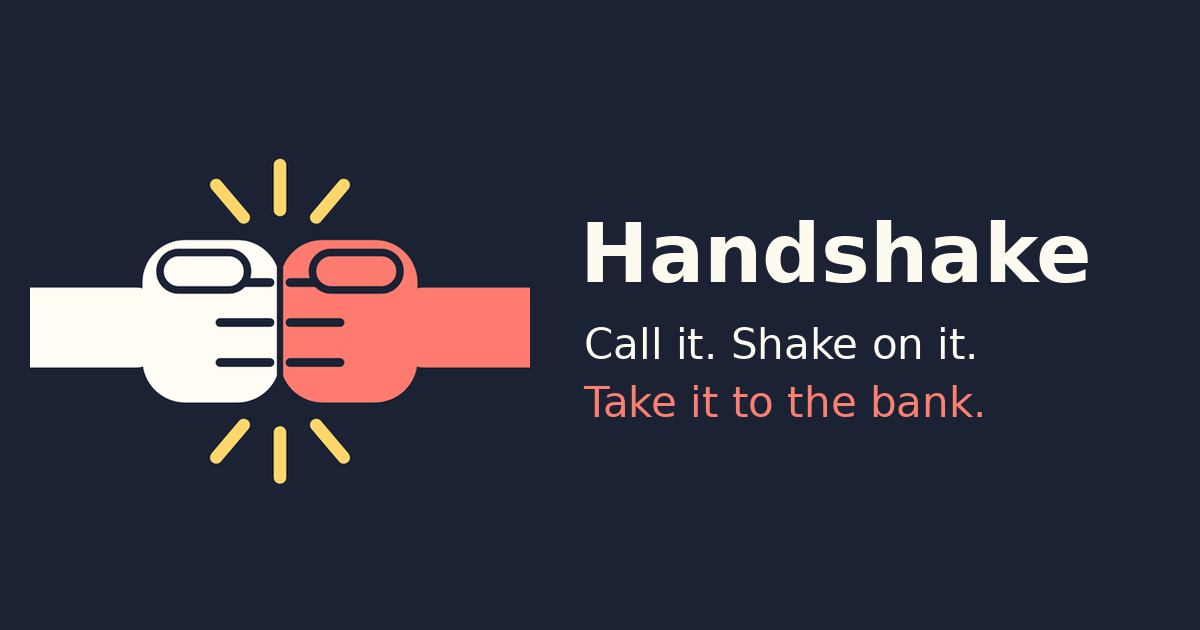
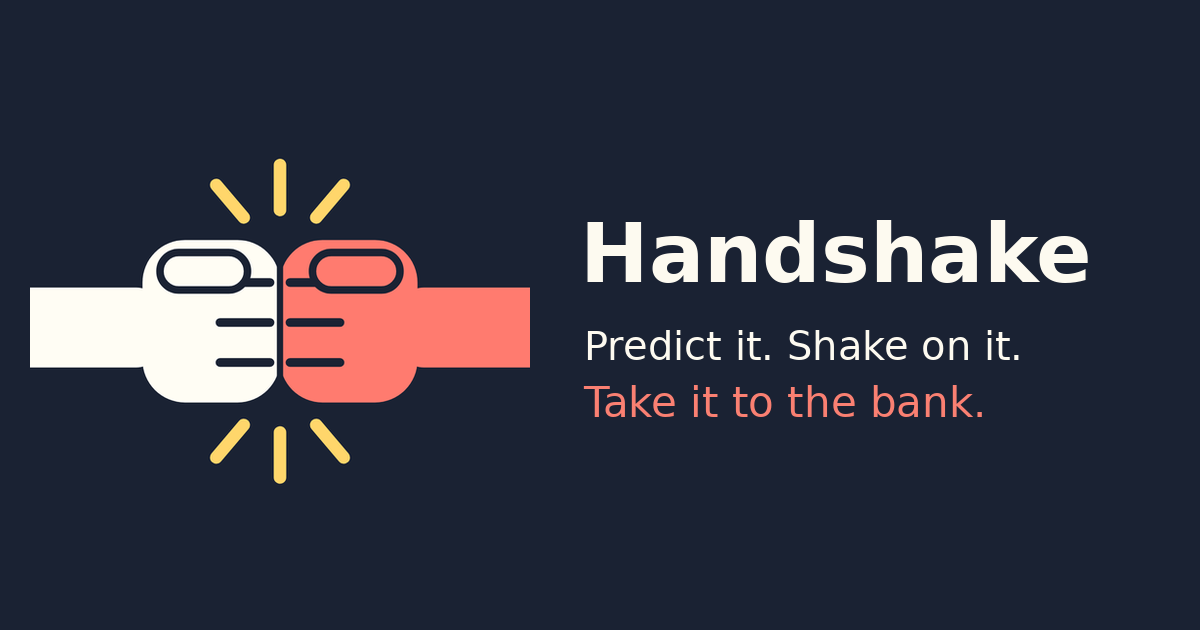
One card per prediction: crashers listed on their side (Says yes / Says no), matchup lines, crash actions inside the card; Predict it wording and tagline
Claude-Session: https://claude.ai/code/session_014Zffo5AKqXqCeBetzQahqg

Changed region(s): [[0.4933, 0.5127, 0.8633, 0.573]]

diff --git a/app.js b/app.js
@@ -139,7 +139,13 @@ const crashable = (b) => ["proposed", "open"].includes(b.status) && !expired(b) 
 /* other one-on-ones from the same group call: same caller, call and deadline, made together */
 const siblings = (b) => (b.parentId || !side(b) ? [] : S.bets.filter((x) => x.id !== b.id && !x.parentId && x.a.uid === b.a.uid && x.title === b.title
   && x.due === b.due && Math.abs((x.createdAt || 0) - (b.createdAt || 0)) < 10 * 60e3 && side(x) && ["open", "disputed"].includes(x.status) && !x.report));
-const mineList = () => S.bets.filter((b) => side(b) || canSign(b) || negSide(b) || isRef(b));
+const involved = (b) => side(b) || canSign(b) || negSide(b) || isRef(b);
+const parentOf = (b) => (b.parentId ? S.bets.find((x) => x.id === b.parentId) || null : null);
+// One card per prediction: a crash you're in shows on its prediction's card.
+const mineList = () => { const keep = new Set(); for (const b of S.bets) if (involved(b)) keep.add(parentOf(b) || b); return S.bets.filter((b) => keep.has(b)); };
+// The crashes on a prediction that involve me (shown inside its card).
+const myKids = (b) => (b.parentId ? [] : liveKids(b).filter(involved));
+const kidNeeds = (b) => myKids(b).some((k) => needsMe(k) || canSign(k));
 
 /* ---------- scoring ---------- */
 function mine() {
@@ -254,7 +260,7 @@ function statusChip(b) {
 function sigLine(b, k) {
   const ok = k === "a" || b.b?.signed;
   const nm = nameOf(b, k);
-  const label = k === "b" && b.b?.proxy && !b.b?.uid ? "in person" : b.parentId ? (k === "a" ? "crashed in" : "accepted") : k === "a" ? "called it" : "against";
+  const label = k === "b" && b.b?.proxy && !b.b?.uid ? "in person" : b.parentId ? (k === "a" ? "crashed in" : "accepted") : k === "a" ? "predicted it" : "against";
   return `<div class="sig"><span class="hand ${ok ? "" : "blank"}">${ok ? esc(nm) : "no handshake yet"}</span><small>${label}</small></div>`;
 }
 function crashLine(b) {
@@ -432,7 +438,43 @@ function setVis(v) {
   $("#visHelp").textContent = VIS[S.vis][1];
 }
 
-function slip(b) {
+/* ---------- one card per prediction: who's on each side, and every matchup ---------- */
+const CR = `<span class="crtag">Crash</span>`;
+// yes = the side of whoever made the prediction; no = the other side
+function matchSides(m) {
+  if (!m.parentId) return { yes: { name: nameOf(m, "a"), uid: m.a?.uid }, no: { name: nameOf(m, "b"), uid: m.b?.uid || m.b?.invited }, crash: null };
+  const ps = m.parentSide || "a", crasher = { name: nameOf(m, "a"), uid: m.a?.uid }, opp = { name: nameOf(m, "b"), uid: m.b?.uid || m.b?.invited };
+  return ps === "a" ? { yes: crasher, no: opp, crash: "yes" } : { yes: opp, no: crasher, crash: "no" };
+}
+function matchLabel(m) {
+  const x = matchSides(m), you = (q) => (q.uid && q.uid === S.me ? "You" : esc(q.name));
+  return `${you(x.yes)}${x.crash === "yes" ? " " + CR : ""} vs ${you(x.no)}${x.crash === "no" ? " " + CR : ""}`;
+}
+function matchStatus(m) {
+  if (m.status === "proposed") return expired(m) ? "Expired" : m.counter ? "Counter offer" : `Waiting for ${(m.b?.uid || m.b?.invited) === S.me || (!m.b?.uid && invitedMe(m)) ? "you" : esc(nameOf(m, "b"))} to shake on it`;
+  if (m.status === "settled") return m.winner === "push" ? "Tie" : `${esc(nameOf(m, m.winner))} won`;
+  return LABEL[m.status] || m.status;
+}
+function sidesBlock(b) {
+  const tagB = b.b?.proxy && !b.b?.uid ? "In person" : b.b?.signed ? "Shook on it" : b.status === "proposed" && !expired(b) ? "Invited · waiting" : "Never shook on it";
+  const yes = [{ n: nameOf(b, "a"), t: "Predicted it" }], no = [{ n: nameOf(b, "b"), t: tagB }];
+  const ks = liveKids(b);
+  for (const k of ks) (((k.parentSide || "a") === "a") ? yes : no).push({ n: nameOf(k, "a"), t: "Crasher" + (k.status === "proposed" && !expired(k) ? " · waiting" : ""), cr: true });
+  const col = (h, list) => `<div class="sidebox"><div class="sidehead">${h}</div>${list.map((x) => `<div class="person"><span class="hand">${esc(x.n)}</span><small class="${x.cr ? "cr" : ""}">${x.t}</small></div>`).join("")}</div>`;
+  const lines = [b, ...ks].map((m) => `<div><span>${matchLabel(m)}</span><span><b>${esc(stakeLabel(m))}</b> <span class="mchip">${matchStatus(m)}</span></span></div>`).join("");
+  const mine = [b, ...ks].filter((m) => side(m)), total = mine.reduce((t, m) => t + stakeOf(m), 0);
+  const sum = mine.length > 1 && total ? `One result settles everything: you're in for ${pts(total)} total across ${mine.length} matchups.` : "One result settles every matchup.";
+  return `<div class="sides">${col("Says yes", yes)}${col("Says no", no)}</div><div class="match">${lines}</div><span class="sub">${sum}</span>`;
+}
+// my net across every matchup on a settled prediction (stamp)
+function netStamp(b) {
+  if (b.status !== "settled") return "";
+  const mine = [b, ...liveKids(b)].filter((m) => side(m) && m.status === "settled");
+  if (!mine.length || mine.some(isOther)) return "";
+  const net = mine.reduce((t, m) => t + (m.winner === "push" ? 0 : m.winner === side(m) ? stakeOf(m) : -stakeOf(m)), 0);
+  return net > 0 ? `<div class="stamp win">+${net}</div>` : net < 0 ? `<div class="stamp">−${-net}</div>` : `<div class="stamp grey">EVEN</div>`;
+}
+function slipParts(b) {
   const s = side(b), o = s ? other(s) : null, p = stakeOf(b);
   const them = s ? esc(nameOf(b, o)) : null;
   let stamp = "";
@@ -473,7 +515,7 @@ function slip(b) {
         note = `Waiting for <b>${them}</b> to shake on it. Send them the link, or tap "We shook on it" if you agreed in person.`;
         acts = S.fixing === b.id ? "" : `<button class="btn" data-act="shook" data-id="${b.id}" ${busy}>We shook on it</button>${notifyBtn(b)}<button class="btn quiet" data-act="fix" data-id="${b.id}">Fix name or number</button><button class="btn quiet danger" data-act="withdraw" data-id="${b.id}" ${busy}>Withdraw</button>`;
       } else if (canSign(b)) {
-        note = `<b>${esc(nameOf(b, "a"))}</b> made this call against <b>${esc(nameOf(b, "b"))}</b>. It's waiting on your handshake.`;
+        note = `<b>${esc(nameOf(b, "a"))}</b> made this prediction against <b>${esc(nameOf(b, "b"))}</b>. It's waiting on your handshake.`;
         acts = S.countering === b.id ? "" : `<button class="btn primary" data-act="sign" data-id="${b.id}" ${busy}>Shake on it!</button><button class="btn" data-act="counter" data-id="${b.id}" ${busy}>Counter stakes</button><button class="btn quiet danger" data-act="decline" data-id="${b.id}" ${busy}>Decline</button>`;
       }
       break;
@@ -497,7 +539,7 @@ function slip(b) {
       break;
     }
     case "disputed":
-      note = `<b>Disputed.</b> ${esc(nameOf(b, b.report?.by || "a"))}'s call wasn't accepted. Talk it out, then record the result again.`;
+      note = `<b>Disputed.</b> ${esc(nameOf(b, b.report?.by || "a"))}'s result wasn't accepted. Talk it out, then record the result again.`;
       if (s && !pick) acts = `${notifyBtn(b)}<button class="btn primary" data-act="pick" data-id="${b.id}" ${busy}>Record result again</button><button class="btn quiet" data-act="callOff" data-id="${b.id}" ${busy}>Call it off</button>`;
       break;
     case "prove": {
@@ -553,7 +595,7 @@ function slip(b) {
 
   let picker = "";
   if (pick && s) {
-    picker = `<div class="picker"><span class="lab">Who called it?</span><div class="acts">
+    picker = `<div class="picker"><span class="lab">Who got it right?</span><div class="acts">
       <button class="btn" data-act="report" data-w="${s}" data-id="${b.id}">I did</button>
       <button class="btn" data-act="report" data-w="${o}" data-id="${b.id}">${them}</button>
       <button class="btn" data-act="report" data-w="push" data-id="${b.id}">Tie</button>
@@ -562,28 +604,41 @@ function slip(b) {
       <span class="sub">If you pick ${siblings(b).length ? "the other side" : them}, it's done and done right away. Otherwise ${siblings(b).length ? "each person" : them} gets 24 hours to confirm or say prove it before any points move.</span>
       <div><button class="btn quiet" data-act="unpick">Cancel</button></div></div>`;
   }
-  const cls = "slip" + (needsMe(b) || canSign(b) ? " attn" : "") + (stamp ? " has-stamp" : "") + (S.fresh === b.id ? " newly" : "");
+  return { s, o, p, them, stamp, note, acts, picker };
+}
+function slipPanels(b) {
+  return `${S.countering === b.id ? counterPanel(b) : ""}${S.fixing === b.id ? fixPanel(b) : ""}${S.extending === b.id ? extendPanel(b) : ""}${proofView(b)}${S.proving === b.id && b.status === "prove" ? proofPanel(b) : ""}${S.objecting === b.id && b.status === "proved" ? objectPanel(b) : ""}${S.notify?.id === b.id && negSide(b) ? notifyPanel(b) : ""}`;
+}
+function slip(b) {
+  if (parentOf(b)) return ""; // shown on its prediction's card
+  const { s, o, p, stamp: stamp0, note, acts, picker } = slipParts(b);
+  const many = liveKids(b).length > 0;
+  const stamp = many ? netStamp(b) || stamp0 : stamp0;
+  const kidBoxes = myKids(b).map((k) => {
+    const q = slipParts(k), pan = slipPanels(k);
+    const n = k.status === "open" ? "" : q.note, a = q.acts;
+    if (!n && !a && !pan && !q.picker) return "";
+    return `<div class="kidbox" id="bet-${k.id}"><span class="lab">${matchLabel(k)}</span>${n ? `<div class="note">${n}</div>` : ""}${a ? `<div class="acts">${a}</div>` : ""}${q.picker}${pan}</div>`;
+  }).join("");
+  const cls = "slip" + (needsMe(b) || canSign(b) || kidNeeds(b) ? " attn" : "") + (stamp ? " has-stamp" : "") + (S.fresh === b.id ? " newly" : "");
   return `<article class="${cls}" id="bet-${b.id}">
     ${stamp}
-    <div class="slip-top"><span class="no">No. ${esc(shortNo(b.id))}</span><span class="cat">${esc(b.category || "Other")}</span>${visTag(b)}${b.parentId ? `<span class="tagc">Crash on No. ${shortNo(b.parentId)}</span>` : ""}${statusChip(b)}${modBtn("prediction", b.id, o ? b[o]?.uid : b.a?.uid)}</div>
-    <h3>${esc(b.title)}</h3>${crashLine(b)}
+    <div class="slip-top"><span class="no">No. ${esc(shortNo(b.id))}</span><span class="cat">${esc(b.category || "Other")}</span>${visTag(b)}${b.parentId ? `<span class="tagc">Crash on No. ${shortNo(b.parentId)}</span>` : ""}${statusChip(kidNeeds(b) && !needsMe(b) && !canSign(b) ? myKids(b).find((k) => needsMe(k) || canSign(k)) : b)}${modBtn("prediction", b.id, o ? b[o]?.uid : b.a?.uid)}</div>
+    <h3>${esc(b.title)}</h3>
+    ${b.parentId ? "" : `<div class="predline"><b>${esc(nameOf(b, "a"))}</b> predicted it</div>`}
     ${b.terms ? `<p class="terms">${esc(b.terms)}</p>` : ""}
     <div class="row">${b.counter && b.status === "proposed"
       ? `<span class="was">${esc(stakeLabel(b))}</span><span class="ctr">Counter</span><span class="stake ${b.counter.kind === "other" ? "text" : ""}">${esc(counterLabel(b.counter))}</span>`
       : isOther(b) ? `<span class="stake text">${esc(stakeLabel(b))}</span>` : `<span class="stake">${p} <small>pts on the line</small></span>`}${dueText(b)}</div>
-    <div class="sigs">${sigLine(b, "a")}${sigLine(b, "b")}</div>
+    ${many ? sidesBlock(b) : `<div class="sigs">${sigLine(b, "a")}${sigLine(b, "b")}</div>`}
     ${note ? `<div class="note">${note}</div>` : ""}
     ${acts ? `<div class="acts">${acts}</div>` : ""}
     ${picker}
-    ${S.countering === b.id ? counterPanel(b) : ""}
-    ${S.fixing === b.id ? fixPanel(b) : ""}
-    ${S.extending === b.id ? extendPanel(b) : ""}
-    ${proofView(b)}
-    ${S.proving === b.id && b.status === "prove" ? proofPanel(b) : ""}
-    ${S.objecting === b.id && b.status === "proved" ? objectPanel(b) : ""}
-    ${S.notify?.id === b.id && negSide(b) ? notifyPanel(b) : ""}
+    ${slipPanels(b)}
+    ${kidBoxes}
   </article>`;
 }
+
 
 function counterPanel(b) {
   const d = S.counterDraft;
@@ -700,8 +755,8 @@ function message(b, kind) {
     case "final":
       subject = `Handshake: final on ${t}`;
       if (b.winner === "push") body = `Final on ${t}: it's a tie, nothing changes hands. Rematch?`;
-      else if (b.winner === s) body = `Final on ${t}: I called it. ${isOther(b) ? "You owe me: " + st + "." : st + " to me."} Rematch?`;
-      else body = `Final on ${t}: you called it. ${isOther(b) ? "I owe you: " + st + "." : st + " to you."} Well played.`;
+      else if (b.winner === s) body = `Final on ${t}: I got it right. ${isOther(b) ? "You owe me: " + st + "." : st + " to me."} Rematch?`;
+      else body = `Final on ${t}: you got it right. ${isOther(b) ? "I owe you: " + st + "." : st + " to you."} Well played.`;
       break;
     default: subject = `Handshake: ${t}`; body = `${them}, reminder: ${t} for ${st}${due}. It's on Handshake:`;
   }
@@ -738,7 +793,7 @@ function notifyPanel(b) {
 /* ---------- board views ---------- */
 const FILTERS = [["all", "All"], ["needs", "Needs you"], ["live", "In play"], ["done", "Done and done"], ["void", "Called off"]];
 function inFilter(b, f) {
-  if (f === "needs") return needsMe(b) || canSign(b);
+  if (f === "needs") return needsMe(b) || canSign(b) || kidNeeds(b);
   if (f === "live") return isLive(b);
   if (f === "done") return b.status === "settled";
   if (f === "void") return b.status === "void" || b.status === "hopeless" || expired(b);
@@ -836,7 +891,7 @@ function renderQuanto() {
 function renderBoard() {
   const MINE = mineList(), cbox = myContestsBox() + myPickemBox();
   if (!MINE.length) {
-    return `<div style="display:flex;flex-direction:column;gap:22px">${cbox}<div class="empty"><h3>No predictions yet</h3><p>Make the first call, or crash someone else's from the Everyone tab. Your predictions show here once they're made, ready for both sides to shake on.</p><button class="btn primary" data-act="new">Make a prediction</button></div></div>`;
+    return `<div style="display:flex;flex-direction:column;gap:22px">${cbox}<div class="empty"><h3>No predictions yet</h3><p>Make the first prediction, or crash someone else's from the Everyone tab. Your predictions show here once they're made, ready for both sides to shake on.</p><button class="btn primary" data-act="new">Make a prediction</button></div></div>`;
   }
   const list = sorted(MINE.filter((b) => inFilter(b, S.filter)));
   const chips = FILTERS.map(([k, l]) => `<button class="chipbtn" aria-pressed="${S.filter === k}" data-act="filter" data-v="${k}">${l} <span class="mono">${MINE.filter((b) => inFilter(b, k)).length}</span></button>`).join("");
@@ -848,7 +903,7 @@ function feedCard(b) {
   const p = stakeOf(b);
   const vs = b.parentId
     ? `<b>${esc(nameOf(b, "a"))}</b> crashed in backing ${esc(b.backsName || "")}, against <b>${esc(nameOf(b, "b"))}</b>`
-    : `<b>${esc(nameOf(b, "a"))}</b> called it. ${b.status === "proposed" && !expired(b) ? `Waiting for <b>${esc(nameOf(b, "b"))}</b> to shake on it.`
+    : `<b>${esc(nameOf(b, "a"))}</b> predicted it. ${b.status === "proposed" && !expired(b) ? `Waiting for <b>${esc(nameOf(b, "b"))}</b> to shake on it.`
         : b.status === "proposed" ? `<b>${esc(nameOf(b, "b"))}</b> never shook on it.`
         : b.b?.signed ? `<b>${esc(nameOf(b, "b"))}</b> shook on it.`
         : `<b>${esc(nameOf(b, "b"))}</b> passed.`}`;
@@ -862,7 +917,7 @@ function feedCard(b) {
     <h3>${esc(b.title)}</h3>
     <div class="vs">${vs}</div>
     <div class="row">${isOther(b) ? `<span class="stake text">${esc(stakeLabel(b))}</span>` : `<span class="stake" style="font-size:16px">${p} <small>pts</small></span>`}${dueText(b)}</div>
-    ${b.parentId ? "" : crashLine(b)}
+    ${!b.parentId && liveKids(b).length ? sidesBlock(b) : ""}
     ${tail}
   </article>`;
 }
@@ -872,7 +927,7 @@ function crashPanel(b) {
   return `<div class="cpanel">
     <span class="lab">Who are you backing?</span>
     <div class="seg" role="group" aria-label="Side to back">
-      <button type="button" aria-pressed="${sd === "a"}" data-act="crashSide" data-v="a">${names.a}'s call</button>
+      <button type="button" aria-pressed="${sd === "a"}" data-act="crashSide" data-v="a">${names.a}'s prediction</button>
       <button type="button" aria-pressed="${sd === "b"}" data-act="crashSide" data-v="b">${names.b}'s side</button>
     </div>
     ${sd ? `<span class="sub">You'd be up against ${sd === "a" ? names.b : names.a}. They accept before it's on.</span>` : ""}
@@ -884,7 +939,7 @@ function crashPanel(b) {
 }
 const FEED_FILTERS = [["crash", "Open to crash"], ["live", "In play"], ["all", "Everything"]];
 function renderFeed() {
-  const bets = S.bets.filter((b) => !b.pickem && !b.wolf && !b.contest && !isBlockedBet(b));
+  const bets = S.bets.filter((b) => !b.pickem && !b.wolf && !b.contest && !isBlockedBet(b) && !parentOf(b));
   if (!bets.length) return `<div style="display:flex;flex-direction:column;gap:22px">${pkSection()}<div class="empty"><h3>Nothing on the board yet</h3><p>Every Full Monty prediction shows up here, newest first, plus Circle of Trust ones from people you've played. Pending ones can be crashed.</p></div></div>`;
   const pass = (b, f) => (f === "crash" ? crashable(b) : f === "live" ? isLive(b) : true);
   const list = bets.filter((b) => pass(b, S.feedFilter)).sort((a, b) => (b.createdAt || 0) - (a.createdAt || 0));
@@ -988,7 +1043,7 @@ function rivalActs(r) {
   const waitingOnMe = r.pendingReq && r.pendingReq.creditor_uid === S.me;
   const btn = r.current > 0 && !waitingOnMe ? `<button class="btn primary" data-act="settle" data-k="${esc(r.key)}">Settle up</button>`
     : r.current < 0 && r.uid && !r.pendingReq ? `<button class="btn primary" data-act="settle" data-k="${esc(r.key)}">I settled up</button>` : "";
-  return `${settleState(r)}<div class="acts">${btn}<button class="btn" data-act="rematch" data-v="${esc(r.name)}" data-uid="${esc(r.uid || "")}">New call against ${esc(r.name)}</button></div>`;
+  return `${settleState(r)}<div class="acts">${btn}<button class="btn" data-act="rematch" data-v="${esc(r.name)}" data-uid="${esc(r.uid || "")}">New prediction against ${esc(r.name)}</button></div>`;
 }
 function renderRivals() {
   const table = standings(), rs = rivals();
@@ -1008,7 +1063,7 @@ function renderRivalsInner(table, rs) {
       ${settledLine}
       <div class="bars" aria-hidden="true"><i class="w" style="width:${(r.w / tot) * 100}%"></i><i class="p" style="width:${(r.t / tot) * 100}%"></i><i class="l" style="width:${(r.l / tot) * 100}%"></i></div>
       <div class="line">${rivalSentence(r)}</div>
-      ${r.live ? `<div class="sub">${r.live} call${r.live === 1 ? "" : "s"} still in play</div>` : ""}
+      ${r.live ? `<div class="sub">${r.live} prediction${r.live === 1 ? "" : "s"} still in play</div>` : ""}
       ${rivalActs(r)}</div>`;
   }).join("");
   return `<div style="display:flex;flex-direction:column;gap:22px">
@@ -1046,7 +1101,7 @@ function vegasCard(g) {
 function renderVegas() {
   if (S.lines === null) { loadLines(); return `<div class="empty"><h3>Calling Vegas…</h3><p>Pulling this week's NFL opening lines.</p></div>`; }
   if (S.linesErr) return `<div class="empty"><h3>No lines yet</h3><p>${esc(S.linesErr)}</p></div>`;
-  const head = `<div class="secthead"><h2>Vegas lines</h2><span class="sub">NFL opening lines. Tap a side to call it against a friend.</span></div>`
+  const head = `<div class="secthead"><h2>Vegas lines</h2><span class="sub">NFL opening lines. Tap a side to predict it against a friend.</span></div>`
     + (S.pk && !S.pk.off ? `<div class="pkbanner"><span><b>Pick 'em All!</b> Run a weekly pool with your group: every game against these spreads.</span><button class="btn" data-act="pkGo">Go</button></div>` : "");
   if (!S.lines.length) return `<div style="display:flex;flex-direction:column;gap:14px">${head}<div class="empty"><p>No upcoming games with lines yet. New lines come in every morning.</p></div></div>`;
   let day = "", out = "";
@@ -2702,7 +2757,7 @@ const ACT = {
   sendObject: (el) => sendObject(byId(el.dataset.id)),
   refPick: (el) => {
     const b = byId(el.dataset.id), w = el.dataset.w;
-    call("referee_pick", { p_id: el.dataset.id, p_winner: w }, w === "push" ? "Called it a tie. Thanks, ref." : nameOf(b, w) + " wins. Thanks, ref.", el.dataset.id);
+    call("referee_pick", { p_id: el.dataset.id, p_winner: w }, w === "push" ? "It's a tie. Thanks, ref." : nameOf(b, w) + " wins. Thanks, ref.", el.dataset.id);
   },
   callOff: (el) => call("report_result", { p_id: el.dataset.id, p_winner: "void" }, "Asked to call it off", el.dataset.id),
   counter: (el) => { S.countering = el.dataset.id; S.counterDraft = {}; S.notify = null; render(); },

diff --git a/index.html b/index.html
@@ -4,12 +4,12 @@
 <meta charset="utf-8">
 <meta name="viewport" content="width=device-width,initial-scale=1,viewport-fit=cover">
 <title>Handshake</title>
-<meta name="description" content="Friendly predictions with your friends. Call it, shake on it, take it to the bank.">
+<meta name="description" content="Friendly predictions with your friends. Predict it, shake on it, take it to the bank.">
 <!-- Link previews in Messages, WhatsApp, Slack, etc. -->
 <meta property="og:type" content="website">
 <meta property="og:site_name" content="Handshake">
 <meta property="og:title" content="🤝 Handshake">
-<meta property="og:description" content="Call it. Shake on it. Take it to the bank. Friendly predictions with your friends.">
+<meta property="og:description" content="Predict it. Shake on it. Take it to the bank. Friendly predictions with your friends.">
 <meta property="og:url" content="https://handshake-rho-ten.vercel.app/">
 <meta property="og:image" content="https://handshake-rho-ten.vercel.app/og.png">
 <meta property="og:image:width" content="1200">
@@ -106,6 +106,19 @@ button{cursor:pointer}
 .secthead .acts{display:flex;align-items:center;gap:6px}
 .rname .modbtn{margin-left:auto}
 .pkresults{display:flex;flex-direction:column;gap:6px}.pkres{display:flex;flex-direction:column;align-items:flex-start;gap:2px;text-align:left;background:var(--slip);border:0;border-radius:10px;box-shadow:var(--shadow);padding:8px 12px;font:inherit;font-size:14px;color:var(--ink);cursor:pointer}.pkres span{color:var(--muted);font-size:13px}
+.predline{font-size:13px;color:var(--muted);margin-top:-6px}.predline b{color:var(--ink)}
+.sides{display:grid;grid-template-columns:1fr 1fr;gap:14px;margin-top:2px}
+.sidebox{display:flex;flex-direction:column;gap:6px;min-width:0}
+.sidehead{font-size:10.5px;text-transform:uppercase;letter-spacing:.08em;color:var(--muted);font-weight:700;border-bottom:1px solid var(--ink);padding-bottom:4px}
+.person{display:flex;flex-wrap:wrap;align-items:baseline;justify-content:space-between;gap:0 6px;min-width:0}.person .hand{flex:1 1 70px;min-width:0}
+.person .hand{font-family:var(--f-hand);font-size:24px;line-height:1.05;color:var(--pen);white-space:nowrap;overflow:hidden;text-overflow:ellipsis;transform:rotate(-2deg);transform-origin:left bottom}
+.person small{font-size:10px;text-transform:uppercase;letter-spacing:.07em;color:var(--muted);white-space:nowrap}
+.person small.cr,.crtag{color:#d9822b;font-weight:700}
+.crtag{font-size:10.5px;text-transform:uppercase;letter-spacing:.06em}
+.match{display:flex;flex-direction:column;gap:5px;font-size:13.5px;border-top:1px dashed var(--line);padding-top:8px}
+.match>div{display:flex;justify-content:space-between;align-items:center;gap:8px;flex-wrap:wrap}
+.mchip{font-size:11px;font-weight:700;border-radius:999px;padding:1px 8px;background:color-mix(in srgb,var(--ink) 10%,transparent)}
+.kidbox{display:flex;flex-direction:column;gap:8px;border-top:1px dashed var(--line);padding-top:10px}
 .sqbad{color:var(--stamp);font-weight:600}
 .sqtabs{display:flex;flex-wrap:wrap;gap:6px}
 .sqboard{display:flex;flex-direction:column;gap:2px;background:var(--slip);border-radius:12px;box-shadow:var(--shadow);padding:8px}
@@ -377,7 +390,7 @@ a.btn.primary{color:var(--slip)}
   <header class="mast">
     <div>
       <h1 class="brand">handshake<span>.</span><small class="counting" id="predCount" hidden></small></h1>
-      <p class="tag">Call it. Shake on it. Take it to the bank.</p>
+      <p class="tag">Predict it. Shake on it. Take it to the bank.</p>
     </div>
     <div class="acts">
       <button class="btn bell" id="bellBtn" data-act="bell" hidden aria-label="Activity"><svg viewBox="0 0 24 24" width="20" height="20" aria-hidden="true"><path fill="currentColor" d="M12 22a2.5 2.5 0 0 0 2.45-2h-4.9A2.5 2.5 0 0 0 12 22Zm7-6V11a7 7 0 0 0-5.5-6.84V3.5a1.5 1.5 0 0 0-3 0v.66A7 7 0 0 0 5 11v5l-2 2v1h18v-1l-2-2Z"/></svg><span class="count" id="bellCount" hidden></span></button>
